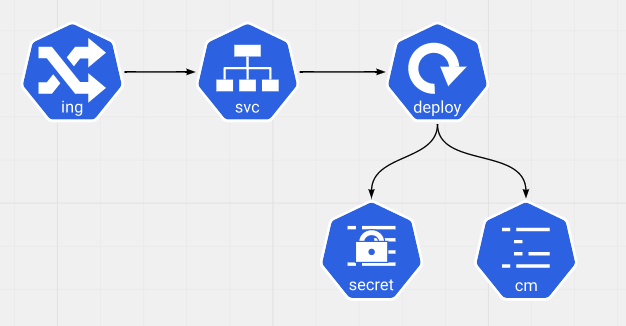
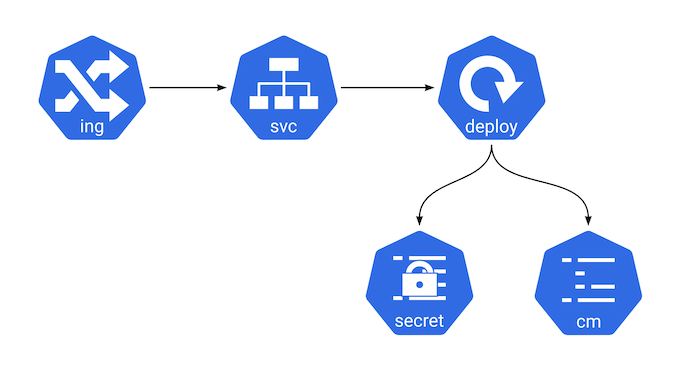
new schema on readme

Changed region(s): [[0.0304, 0.0613, 0.8195, 0.9202], [0.7588, 0.4908, 0.9712, 0.9202]]

diff --git a/README.md b/README.md
@@ -17,7 +17,7 @@ All the services are built into a Docker Images
 All the service have deployed in a Kubernetes Cluster following the pattern:
 
 
-![Architecture](img/micropets-msa-3.png)
+![Architecture](img/micropets-msa.png)
 
 Ingress <--> Service <--> Deployment <--> {ConfigMap,Secrets}
 
